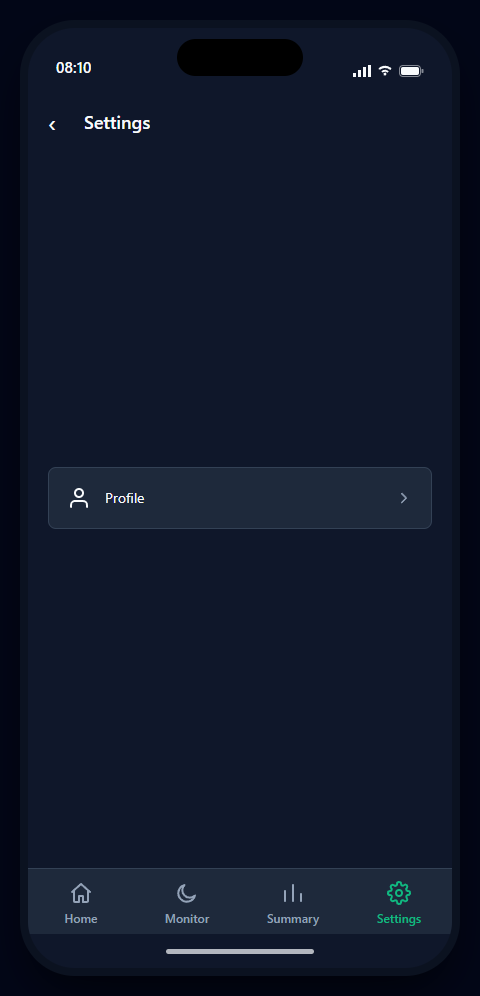
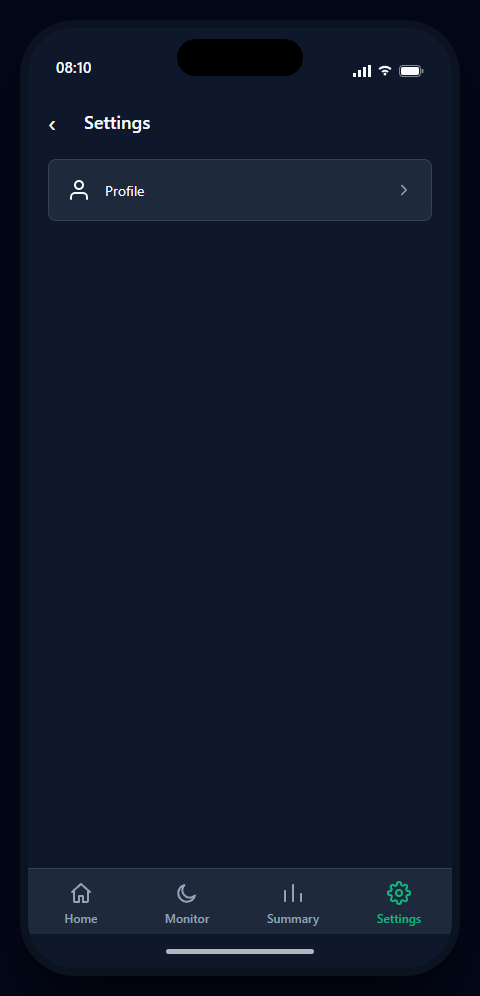
docs(ux): top-align Profile row in Settings mockup
Penpot review feedback: the Profile menu row now sits at the top of
the content column, directly below the app bar, instead of vertically
centered (.app-content justify-content: center -> flex-start). Matches
standard iOS Settings; the empty space falls below the list.

Regenerated mob_settings.png; Penpot board "13 - Settings" updated to
match.

diff --git a/_bmad-output/ux/ux-design-masker-app-2026-09-01/mockups/mob_settings.html b/_bmad-output/ux/ux-design-masker-app-2026-09-01/mockups/mob_settings.html
@@ -27,11 +27,10 @@
       §Primary Navigation table, row 4; Component Pattern #4).
     Nothing in this screen is thin/inferred -- every element traces to an explicit spec
     passage above.
-    - Redrawn on the iPhone 17 Pro Max 440x956 artboard (was 390x844 Android chrome). A
-      single-row Profile list on this much larger canvas would otherwise leave a long dead
-      strip below the card, so the menu card is vertically centered in the content column
-      (still clearly below the app bar) instead of pinned to the top, and the row itself is
-      given more generous height/padding to match the frame's scale.
+    - Redrawn on the iPhone 17 Pro Max 440x956 artboard (was 390x844 Android chrome). The
+      menu card is pinned to the top of the content column, directly below the app bar
+      (standard iOS Settings behaviour: list starts at the top, dead space falls below),
+      and the row is given generous height/padding to match the frame's scale.
   */
   :root {
     --bg-primary: #0F172A;
@@ -135,10 +134,10 @@
   .app-content {
     flex: 1 1 auto;
     overflow-y: auto;
-    padding: 0 20px 24px;
+    padding: 8px 20px 24px;
     display: flex;
     flex-direction: column;
-    justify-content: center;
+    justify-content: flex-start;
   }
   .menu-card {
     background: var(--surface);

diff --git a/_bmad-output/ux/ux-design-masker-app-2026-09-01/.memlog.md b/_bmad-output/ux/ux-design-masker-app-2026-09-01/.memlog.md
@@ -1,6 +1,6 @@
 ---
 topic: Settings page + bottom-nav Profile→Settings swap (Update)
-updated: 2026-09-05T23:15
+updated: 2026-09-06T06:26
 ---
 
 - (decision) Scope: Update existing final spines. Add bottom-nav tab bar to IA (backfill), swap tab 4 Profile->Settings, add MOB_SETTINGS screen, settings menu-row pattern, conditional Debugging/Developer items.
@@ -42,3 +42,4 @@ updated: 2026-09-05T23:15
 - (change) Rebuilt the Penpot flow file end-to-end: removed all 13 old (Android-chrome, 410x854) boards, re-screenshotted all 13 redrawn mockups at the new iPhone size, re-imported and re-wrapped as boards, re-wired all 12 click-to-navigate interactions plus the 'Full App Walkthrough' Flow. Board spacing set to 120px gap (up from the original 80px, and explicitly not 0/edge-to-edge per Reid's correction). Caught and fixed a real bug during rebuild: mob_device_pairing.html's two-frame side-by-side layout (~928px content width) was initially screenshotted at only 460px width, clipping the second (blocked-state) panel entirely - re-captured at the correct 960x996 before importing.
 - (event) Root-caused the right-alignment bug Reid saw in Penpot: Penpot boards drag their children along automatically when the board's own x/y is set (group-like behavior) - my repeated delta-based repositioning code (edge-to-edge pass, then grid pass) was ALSO manually shifting each child by the same delta on top of that automatic drag, double-applying every move and compounding across passes (errors as large as several thousand px by the third pass). Fixed by abandoning delta math entirely and using penpotUtils.setParentXY(child, 0, 0) on every board's child after final positioning - the documented, board-relative way to position a child regardless of the board's own absolute position. All 13 boards verified correct via server-side export_shape after the fix. Also rebuilt the layout as a 4-column x 4-row grid (was a single 13-wide row) per Reid's request to see more screens at once without deep horizontal scrolling/zooming - IA/flow order preserved reading left-to-right then top-to-bottom, all 12 navigate-to interactions and the Full App Walkthrough Flow unaffected by the regrid.
 - (change) Fixed off-center mockup screenshots: root cause was headless Chrome CLI silently flooring --window-size width at 500px, cropping an already-centered render off-center. Rebuilt capture via Puppeteer (single render pass, measured device-frame bbox, symmetric 20px margin crop). Regenerated all 13 PNGs in .working/screenshots/ (480x996; device_pairing 968x1026 incl. column captions). Re-imported all 13 into Penpot file 'Sleep Apnea App - Mockup Flow' (aeeec736-5c79-81d3-8008-9719456b8880); resized each board+rect to match its PNG exactly (zero scaling distortion). Verified 7/13 boards via server-side export_shape - all symmetric.
+- (change) MOB_SETTINGS review feedback (Reid, Penpot review): Profile menu row moved from vertically-centered to top-aligned (.app-content justify-content center -> flex-start, +8px top pad). Matches standard iOS Settings (list starts at top; dead space below). Regenerated mob_settings.png and updated Penpot board '13 - Settings' via HTTP MCP bridge (no Claude Code restart).
